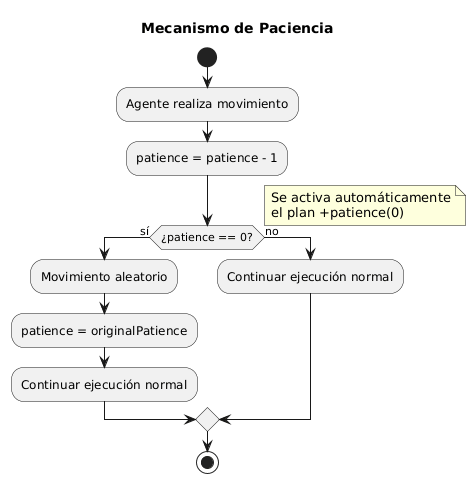
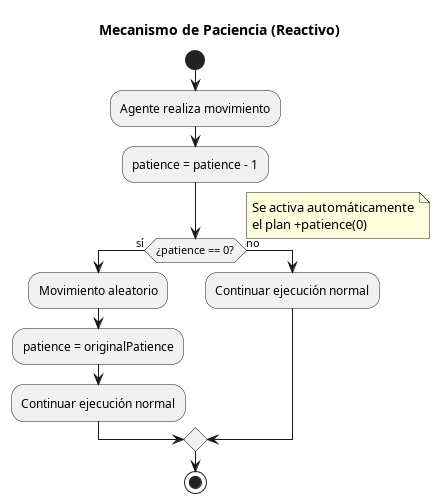
Update docs

Changed region(s): [[0.0, 0.0311, 0.975, 0.9938], [0.975, 0.4037, 1.0, 0.4658]]

diff --git a/domestic_robot/docs/README.md b/domestic_robot/docs/README.md
@@ -57,9 +57,34 @@ domestic_robot/
 
 El módulo de movimiento actúa como biblioteca base para todos los agentes del sistema. La representación del entorno se basa en conexiones entre habitaciones mediante predicados del tipo `connect(habitacion1, habitacion2, puerta)`. Por ejemplo, `connect(kitchen, hall, doorKit1)` indica que la cocina y el hall están conectados a través de la puerta doorKit1. Estos connect que se obtienen permiten a los diferentes agentes realizar las rutas a correspondientes habitaciones que precisen ir según la necesidad.
 
+### Mapeo de la Casa
+
+Para la obtención de los predicados de tipo `connect(habitacion1, habitacion2, puerta)`, se lleva a cabo el mapeo de la casa. Para ello, tanto el owner como el robot realizan las siguientes acciones:
+
+1. Obtener todos los objetos de la casa y filtrar las puertas si contienen el fragmento o secuencia de string `“door”`, para adicionarlas a una listado de puertas que tienen que descubrir.
+
+2. Obtener los objetos de la habitación donde se encuentra el agente mediante la creencia `atRoom(Object, Room)` e identificar cuáles de estos objetos corresponden a puertas.
+
+3. Dependiendo si el agente ya ha visitado la puerta, se dan dos casuísticas:
+   1. Si no la ha visitado, entonces se mueve a ella mediante el uso de `move_towards()`.
+
+   2. Si ya la ha visitado, se va al pasillo y se mueve a otras puertas que sigan en la lista de puertas que no han sido visitadas aún.
+
+4. El agente cruza la habitación para saber que la puerta visitada conecta dos habitaciones contiguas y adiciona la creencia `connect(habitacion1, habitacion2, puerta)`.
+
+5. El agente responsable de descubrir cada puerta en su momento, realiza un broadcast para comunicar a todos los agentes la conexión obtenida.
+
 ### Planificación de Rutas
 
-La planificación de rutas se realiza mediante dos predicados principales. El predicado `findPathRoom` implementa una búsqueda en profundidad limitada que explora recursivamente las conexiones entre habitaciones. Este predicado es especialmente interesante porque mantiene una lista de puertas visitadas para evitar ciclos:
+La planificación de rutas se realiza mediante dos predicados principales.
+
+#### `findPathRoom`
+
+El predicado `findPathRoom` implementa una búsqueda en profundidad limitada que explora recursivamente las conexiones entre habitaciones. Este predicado es especialmente interesante porque mantiene una lista de puertas visitadas para evitar ciclos, asegurando que el agente no cruce la misma entrada repetidamente en un solo trayecto. La regla funciona identificando primero una conexión válida entre la habitación actual y una adyacente a través de una puerta específica. Posteriormente, se verifica que dicha puerta no haya sido transitada previamente y que el límite de profundidad permitido, controlado por la variable `N1`, sea aún superior a cero. Si estas condiciones se cumplen, se realiza una llamada recursiva que añade la puerta a la lista de elementos visitados y reduce el contador de profundidad.
+
+Finalmente, la ruta completa se construye mediante la concatenación de la puerta actual con el subcamino encontrado, devolviendo al agente una secuencia lógica de movimientos para alcanzar su destino.
+
+Este enfoque estructurado permite que los agentes naveguen por la casa de forma segura, respetando los límites de exploración y optimizando el descubrimiento de rutas viables hacia las habitaciones objetivo.
 
 ```prolog
 findPathRoom(Current, Target, Visited, Path, MaxDepth)
@@ -77,7 +102,27 @@ findPathRoom(Current, Target, Visited, Path, MaxDepth)
    Path = [Door|SubPath].
 ```
 
-El predicado `shortestRoomPath` optimiza la búsqueda intentando primero con profundidades menores, lo que garantiza encontrar el camino más corto.
+#### `shortestRoomPath`
+
+El predicado `shortestRoomPath` implementa una estrategia de búsqueda de profundidad iterativa que optimiza la navegación al explorar el entorno en capas concéntricas. Mediante el uso del operador de disyunción, el sistema prioriza sistemáticamente la búsqueda en profundidades menores `N-1` antes de intentar el límite actual, lo que garantiza que el camino devuelto sea siempre el más corto posible entre dos habitaciones.
+
+Esta estructura recursiva se apoya en la regla `minusOne` para decrementar el nivel de exploración hasta agotar las posibilidades dentro del rango permitido. El control de seguridad `MaxDepth > 0` previene ciclos infinitos y asegura que la búsqueda se detenga si se supera el número total de conexiones detectadas en la casa. Una vez hallada la ruta óptima, el predicado delega en `findPathRoom` la construcción de la lista secuencial de puertas que el agente debe cruzar para alcanzar su objetivo.
+
+```prolog
+shortestRoomPath(Current, Target, Path, MaxDepth)
+ :-
+   MaxDepth > 0
+  &
+   (
+    (
+     minusOne(MaxDepth, N1)
+    &
+     shortestRoomPath(Current, Target, Path, N1)
+    )
+   |
+    findPathRoom(Current, Target, [], Path, MaxDepth)
+   ).
+```
 
 ### Navegación entre Habitaciones
 
@@ -85,19 +130,21 @@ La navegación entre habitaciones se gestiona mediante el plan `goToRoom`, que c
 
 Un aspecto crítico de la navegación es la detección y resolución de atascos. Si el agente se encuentra en una puerta durante dos ciclos consecutivos (lo que se detecta mediante la variable temporal `wasAtDoor`), se considera que está atascado y ejecuta movimientos aleatorios hasta liberarse.
 
+<img src="./diagramaGoToRoom.png"/>
+
 ### Mecanismo de Paciencia
 
 Un elemento clave para la robustez del sistema es el mecanismo de paciencia. Cada agente mantiene un contador (`patience`) que se decrementa con cada movimiento. Cuando este contador llega a cero, se activa automáticamente un plan reactivo (mediante `+patience(0)`) que ejecuta un movimiento aleatorio y reinicia el contador. Este mecanismo funciona de forma similar a como se activan otros planes reactivos como `+at(robot, dirty)`.
 
 El contador de paciencia se reinicia en dos situaciones: automáticamente cuando llega a cero tras el movimiento aleatorio, o manualmente cuando el robot o el owner alcanzan sus objetivos y llaman a `!resetPatience`.
 
+<img src="./diagramaPatience.png"/>
+
 ### Movimientos Especiales para el Barrido
 
 Para el robot, que debe barrer habitaciones sin salir de ellas, existen variantes especiales de los movimientos básicos: `moveUpNoExit`, `moveDownNoExit`, `moveLeftNoExit` y `moveRightNoExit`. Estas versiones verifican después de cada movimiento si el agente ha salido de la habitación o está en una puerta, y en ese caso deshacen el movimiento. Además, actualizan los contadores de posición (`height` y `width`) que el robot usa para controlar el barrido sistemático.
 
-<img src="./diagramaMovement.png" width="500"/>
-
-<img src="./diagramaPatience.png" width="420"/>
+<img src="./diagramaMovement.png"/>
 
 ## Agente Robot
 
@@ -132,7 +179,7 @@ Además de la limpieza, el robot reacciona a percepciones del entorno mediante p
 
 La evasión del propietario es un comportamiento interesante que añade "cortesía" al robot. El sistema cuenta cuántas veces consecutivas el robot coincide con el dueño en la misma celda. Tras 5 coincidencias, el robot se disculpa y realiza un movimiento aleatorio para salir del camino. Este contador se reinicia cuando el robot ya no está cerca del propietario.
 
-<img src="./diagramaRobot.png" width="400"/>
+<img src="./diagramaRobot.png"/>
 
 ## Agente Owner
 
@@ -144,7 +191,7 @@ Una vez elegido el objetivo, el propietario navega hacia él utilizando el plan 
 
 El owner también puede recibir comunicación del robot. Específicamente, si el robot detecta un intruso, envía un mensaje que el propietario recibe y procesa, aunque en esta implementación solo emite una alerta.
 
-<img src="./diagramaOwner.png" width="600"/>
+<img src="./diagramaOwner.png"/>
 
 ## Características Destacadas del Diseño
 
